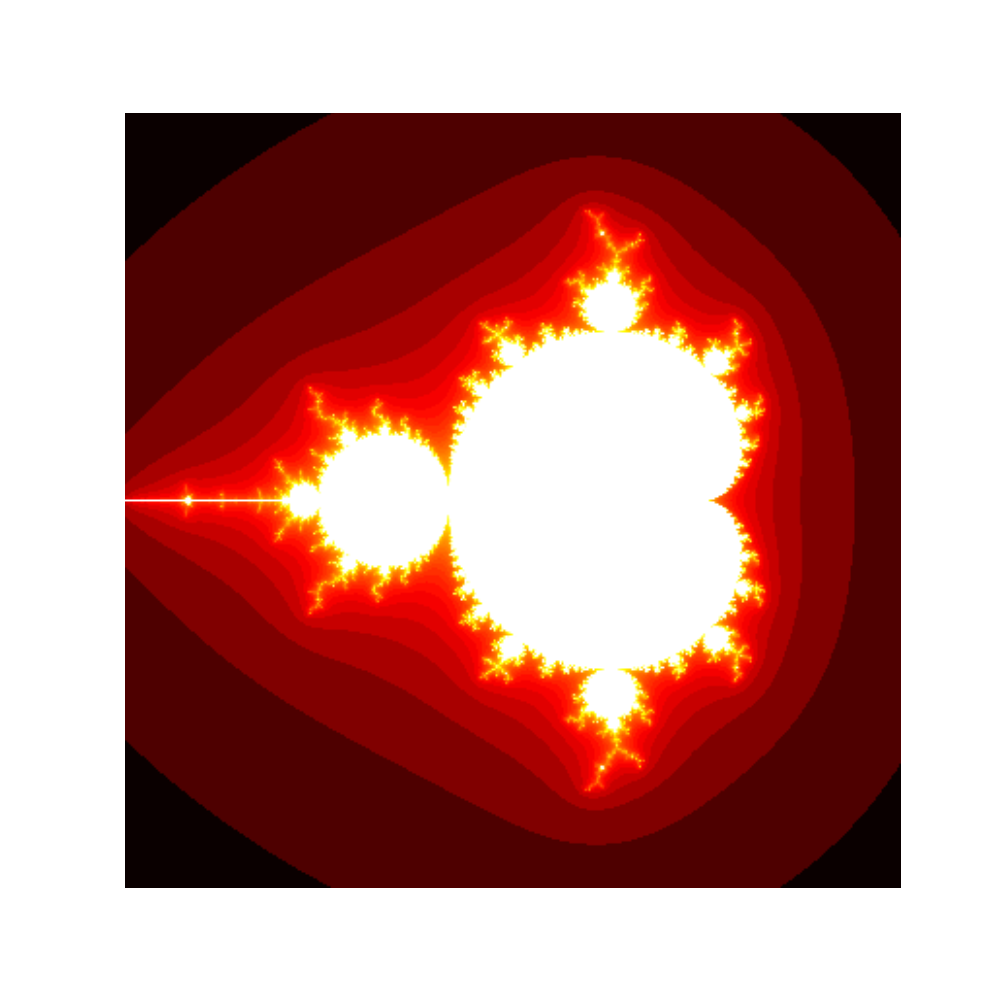
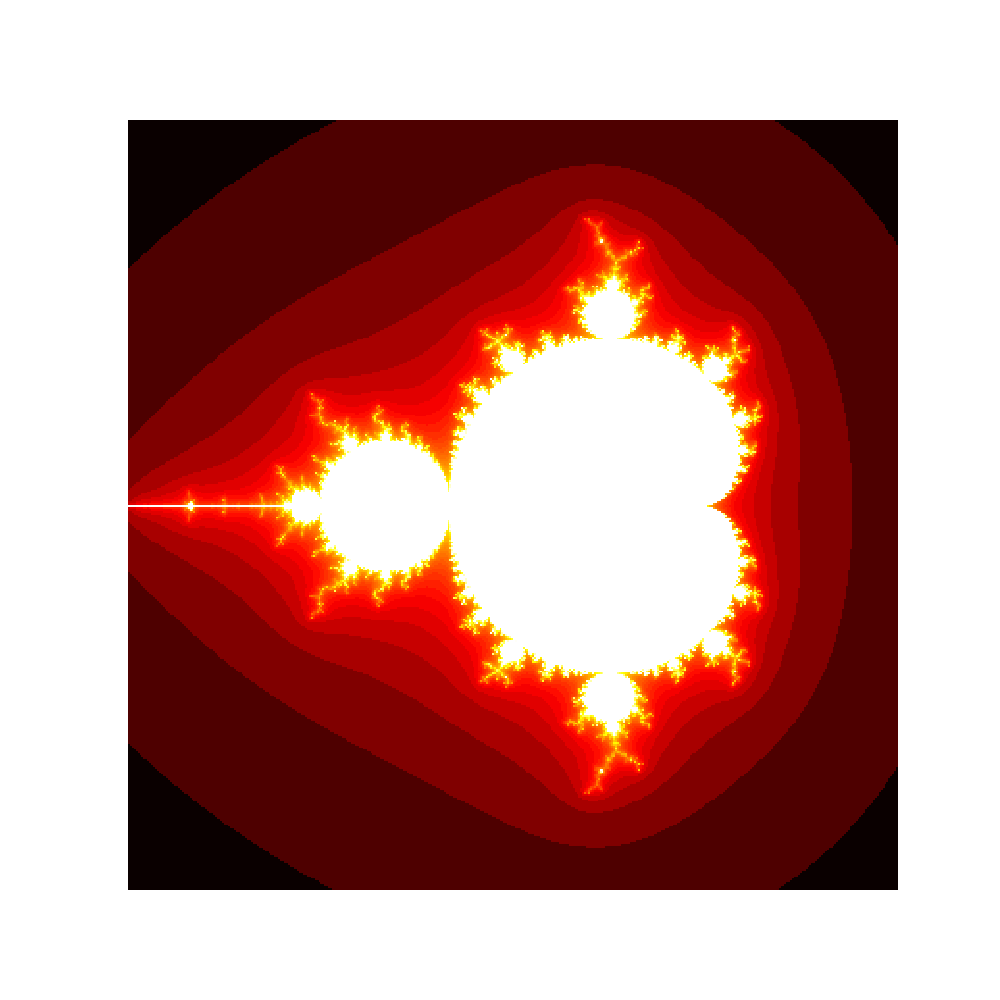
add mandelbrot etc

diff --git a/Mandelbrot.py b/Mandelbrot.py
@@ -1,34 +1,42 @@
+'''
+    Example of Mandelbrot
+    written C wrapped for Python
 
+    Step 1: compile C
+    $> gcc -shared -Wl,-soname,mandelbrot -o mandelbrot.so -fPIC mandelbrot.c
 
-from numpy.ctypeslib import ndpointer
+    Step 2: Use the Object MandelBrot in this file to use
+
+    example
+    ---------
+    $> MB = MandelBrot()
+    $> result = MB(size, iterations)
+
+'''
 import ctypes
+import numpy as np
+from numpy.ctypeslib import ndpointer
 
 
 
-lib = ctypes.CDLL('mandelbrot.so')
-lib.mandelbrot.restype = None
-lib.mandelbrot.argtypes = (ctypes.c_int, 
-                           ctypes.c_int,
-                           ndpointer(ctypes.c_int))
-
-
-#def mandelbrot():
-#    lib = ctypes.CDLL('mandelbrot.so')
-#    lib.mandelbrot.restype = None
-#    lib.mandelbrot.argtypes = (ctypes.c_int, 
-#                               ctypes.c_int,
-#                               ndpointer(ctypes.c_int))
-#
-#    mandelbrot = lib.mandelbrot
-#    return mandelbrot
-
-def mandelbrot(size, iterations):
-    global lib
-    import  numpy as np
-    col = np.empty((size, size), dtype=np.int32)
-    #array_type = ctypes.c_int * size
-    lib.mandelbrot(ctypes.c_int(size),
-                   ctypes.c_int(iterations),
-                   col)
-    return col
-
+class MandelBrot:
+    
+    def __init__(self):
+        
+        # path to the shared library
+        self.lib = ctypes.CDLL(r'/home/medirz90/Downloads/github/ThirtyDaysOfC/mandelbrot.so')
+        
+        self.lib.mandelbrot.restype = None
+        self.lib.mandelbrot.argtypes = (ctypes.c_int, 
+                                   ctypes.c_int,
+                                   ndpointer(ctypes.c_int))
+    
+    def __call__(self, size, iterations):
+        
+        # placeholder for the output
+        col = np.empty((size, size), dtype=np.int32)
+        
+        self.lib.mandelbrot(ctypes.c_int(size),
+                            ctypes.c_int(iterations),
+                            col)
+        return col

diff --git a/test_mandelbrot.py b/test_mandelbrot.py
@@ -1,16 +1,33 @@
+
+"""
+    Example of MandelBrot testing
+
+"""
 import numpy as np
-from Mandelbrot import mandelbrot
-
-
-size = 400
-iterations = 100
-col = mandelbrot(size, iterations)
-
-
 import matplotlib.pyplot as plt
 
-fig, ax = plt.subplots(1, 1, figsize=(10, 10))
-ax.imshow(np.log(col), cmap=plt.cm.hot)
-ax.set_axis_off()
+from time import time
+from Mandelbrot import MandelBrot
 
-plt.savefig('mandelbrot.png')
+def test():
+    t0 = time()
+
+    size = 400
+    iterations = 100
+
+    # call C
+    MB = MandelBrot()
+    col = MB(size, iterations)
+
+    print('done in {:.2f} sec'.format(time()-t0))
+
+    # plot
+    fig, ax = plt.subplots(1, 1, figsize=(10, 10))
+    ax.imshow(np.log(col), cmap=plt.cm.hot)
+    ax.set_axis_off()
+    plt.savefig('mandelbrot.png')
+    
+    return 0
+
+if __name__ == '__main__':
+    test()

diff --git a/mandelbrot.c b/mandelbrot.c
@@ -1,15 +1,17 @@
 /*
-gcc -shared -Wl,-soname,mandelbrot \
-    -o mandelbrot.so \
-    -fPIC mandelbrot.c
+    MandelBrot implementation in C
 
-see :
-https://ipython-books.github.io/54-wrapping-a-c-
-library-in-python-with-ctypes/
+    Compile it with
+    $> gcc -shared -Wl,-soname,mandelbrot -o mandelbrot.so -fPIC mandelbrot.c
+
+    based on https://ipython-books.github.io/54-wrapping-a-c-library-in-python-with-ctypes/
+
 */
 
 #include "stdio.h"
 #include "stdlib.h"
+
+void mandelbrot(int size, int iterations, int *col);
 
 void mandelbrot(int size, int iterations, int *col)
 {

diff --git a/pi.c b/pi.c
@@ -1,3 +1,7 @@
+/*
+    Code to compute the number Pi = 3.14
+
+*/
 #include <stdio.h> 
 #include <time.h>
 void Pi(int num_steps)

diff --git a/bubblesort.c b/bubblesort.c
@@ -52,7 +52,5 @@ int main() {
         printf("a[%d] = %d\n", i, a[i]);
     }
     */
-
     return 0;
 }
-
